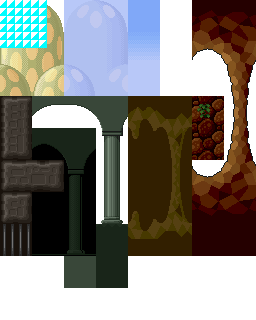
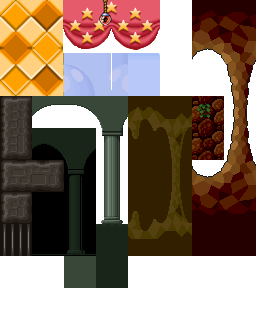
Toad House Chest

Changed region(s): [[0.0, 0.0, 0.625, 0.3125]]

diff --git a/code/chest.js b/code/chest.js
@@ -1,0 +1,226 @@
+/**
+    Represents a life-giving mushroom.
+    Code by Rob Kleffner, 2011
+*/
+
+Mario.Chest = function (world, x, y) {
+    this.RunTime = 0;
+    this.GroundInertia = 0.89;
+    this.AirInertia = 0.1;
+    this.OnGround = false;
+    this.Width = 17;
+    this.Height = 50;
+    this.World = world;
+    this.X = 150;
+    this.Y = 200;
+    this.Image = Enjine.Resources.Images["chest"];
+    this.XPicO = 17;
+    this.YPicO = 32;
+    this.YPic = 0;
+    this.Height = 50;
+    this.Facing = 1;
+    this.PicWidth = this.PicHeight = 33;
+    this.Life = 0;
+
+    this.Open = false;
+    this.Reward = 0;
+    this.layertimer = 10;
+    this.EndTimer = 125;
+};
+
+Mario.Chest.prototype = new Mario.NotchSprite();
+
+Mario.Chest.prototype.CollideCheck = function () {
+    var xMarioD = Mario.MarioCharacter.X - this.X, yMarioD = Mario.MarioCharacter.Y - this.Y;
+    if (xMarioD > -31 && xMarioD < 31) {
+        if (yMarioD > -this.Height && yMarioD < Mario.MarioCharacter.Height) {
+            this.XPic = 1;
+            if (!this.Open) {
+                for (i = 0; i <= 2; i++) {
+                    if (Math.random() * 2 | 0) {
+                        this.Reward += 1
+                    }
+                }
+                if (this.Reward == 1) {
+                    this.Layer = 1;
+                    this.World.AddSprite(new Mario.Mushroom(this.World, this.X, this.Y - 5));
+                }
+                else {
+                    this.World.AddSprite(new Mario.FireFlower(this.World, this.X, this.Y - 5));
+                }
+                this.Open = true;
+            }
+        }
+    }
+};
+
+Mario.Chest.prototype.Move = function () {
+
+    if (this.Life < 9) {
+        this.Layer = 1;
+        this.Y--;
+        this.Life++;
+        return;
+    }
+
+    var sideWaysSpeed = 0;
+
+    if (this.Open) {
+        this.layertimer -= 1
+        this.EndTimer -= 1
+    }
+    if (this.layertimer == 0) {
+        this.Layer = 0;
+    }
+    if (this.EndTimer == 0) {
+        Mario.MarioCharacter.Win()
+    }
+
+    if (this.Xa > 2) {
+        this.Facing = 1;
+    }
+    if (this.Xa < -2) {
+        this.Facing = -1;
+    }
+    if (Mario.MarioCharacter.character_select == "fox") {
+        return;
+    }
+    this.Xa = this.Facing * sideWaysSpeed;
+
+    this.XFlip = this.Facing === -1;
+    this.RunTime += Math.abs(this.Xa) + 5;
+
+    if (!this.SubMove(this.Xa, 0)) {
+        this.Facing = -this.Facing;
+    }
+    this.OnGround = false;
+    this.SubMove(0, this.Ya);
+
+    this.Ya *= 0.85;
+    if (this.OnGround) {
+        this.Xa *= this.GroundInertia;
+    } else {
+        this.Xa *= this.AirInertia;
+    }
+
+    if (!this.OnGround) {
+        this.Ya += 2;
+    }
+};
+
+Mario.Chest.prototype.SubMove = function (xa, ya) {
+    var collide = false;
+
+    while (xa > 8) {
+        if (!this.SubMove(8, 0)) {
+            return false;
+        }
+        xa -= 8;
+    }
+    while (xa < -8) {
+        if (!this.SubMove(-8, 0)) {
+            return false;
+        }
+        xa += 8;
+    }
+    while (ya > 8) {
+        if (!this.SubMove(0, 8)) {
+            return false;
+        }
+        ya -= 8;
+    }
+    while (ya < -8) {
+        if (!this.SubMove(0, -8)) {
+            return false;
+        }
+        ya += 8;
+    }
+
+    if (ya > 0) {
+        if (this.IsBlocking(this.X + xa - this.Width, this.Y + ya, xa, 0)) {
+            collide = true;
+        } else if (this.IsBlocking(this.X + xa + this.Width, this.Y + ya, xa, 0)) {
+            collide = true;
+        } else if (this.IsBlocking(this.X + xa - this.Width, this.Y + ya + 1, xa, ya)) {
+            collide = true;
+        } else if (this.IsBlocking(this.X + xa + this.Width, this.Y + ya + 1, xa, ya)) {
+            collide = true;
+        }
+    }
+    if (ya < 0) {
+        if (this.IsBlocking(this.X + xa, this.Y + ya - this.Height, xa, ya)) {
+            collide = true;
+        } else if (collide || this.IsBlocking(this.X + xa - this.Width, this.Y + ya - this.Height, xa, ya)) {
+            collide = true;
+        } else if (collide || this.IsBlocking(this.X + xa + this.Width, this.Y + ya - this.Height, xa, ya)) {
+            collide = true;
+        }
+    }
+
+    if (xa > 0) {
+        if (this.IsBlocking(this.X + xa + this.Width, this.Y + ya - this.Height, xa, ya)) {
+            collide = true;
+        }
+        if (this.IsBlocking(this.X + xa + this.Width, this.Y + ya - ((this.Height / 2) | 0), xa, ya)) {
+            collide = true;
+        }
+        if (this.IsBlocking(this.X + xa + this.Width, this.Y + ya, xa, ya)) {
+            collide = true;
+        }
+    }
+    if (xa < 0) {
+        if (this.IsBlocking(this.X + xa - this.Width, this.Y + ya - this.Height, xa, ya)) {
+            collide = true;
+        }
+        if (this.IsBlocking(this.X + xa - this.Width, this.Y + ya - ((this.Height / 2) | 0), xa, ya)) {
+            collide = true;
+        }
+        if (this.IsBlocking(this.X + xa - this.Width, this.Y + ya, xa, ya)) {
+            collide = true;
+        }
+    }
+
+    if (collide) {
+        if (xa < 0) {
+            this.X = (((this.X - this.Width) / 16) | 0) * 16 + this.Width;
+            this.Xa = 0;
+        }
+        if (xa > 0) {
+            this.X = (((this.X + this.Width) / 16 + 1) | 0) * 16 - this.Width - 1;
+            this.Xa = 0;
+        }
+        if (ya < 0) {
+            this.Y = (((this.Y - this.Height) / 16) | 0) * 16 + this.Height;
+            this.JumpTime = 0;
+            this.Ya = 0;
+        }
+        if (ya > 0) {
+            this.Y = (((this.Y - 1) / 16 + 1) | 0) * 16 - 1;
+            this.OnGround = true;
+        }
+
+        return false;
+    } else {
+        this.X += xa;
+        this.Y += ya;
+        return true;
+    }
+};
+
+Mario.Chest.prototype.IsBlocking = function (x, y, xa, ya) {
+    x = (x / 16) | 0;
+    y = (y / 16) | 0;
+
+    if (x === (this.X / 16) | 0 && y === (this.Y / 16) | 0) {
+        return false;
+    }
+
+    return this.World.Level.IsBlocking(x, y, xa, ya);
+};
+
+Mario.Chest.prototype.BumpCheck = function (x, y) {
+    if (this.X + this.Width > x * 16 && this.X - this.Width < x * 16 - 16 && y === ((y - 1) / 16) | 0) {
+        this.Facing = -Mario.MarioCharacter.Facing;
+        this.Ya = -10;
+    }
+};

diff --git a/mario.min.js b/mario.min.js
@@ -220,6 +220,12 @@ Mario.FlowerEnemy.prototype.Move = function () {
         this.JumpTime > 40 && a > 24 ? -8 : 0) : this.JumpTime = 0, this.Y += this.Ya, this.Ya *= 0.9, this.Ya += 0.1, this.XPic = ((this.Tick / 2 | 0) & 1) * 2 + ((this.Tick / 6 | 0) & 1)
 };
 Mario.Blastzone = function (world, x, y) { this.World = world; this.Image = Enjine.Resources.Images["blastzone"]; this.PicWidth = 144; this.PicHeight = 156; this.X = x * 16; this.Y = y * 16 - 16; this.Xa = 0; this.Ya = -6; this.XPic = 0; this.YPic = 0; }; this.Layer = 1; Mario.Blastzone.prototype = new Mario.NotchSprite();
+/**
+    Represents a life-giving mushroom.
+    Code by Rob Kleffner, 2011
+*/
+
+Mario.Chest = function (world, x, y) { this.RunTime = 0; this.GroundInertia = 0.89; this.AirInertia = 0.1; this.OnGround = false; this.Width = 4; this.Height = 24; this.World = world; this.X = x; this.Y = y; this.Image = Enjine.Resources.Images["items"]; this.XPicO = 8; this.YPicO = 15; this.YPic = 0; this.Height = 12; this.Facing = 1; this.PicWidth = this.PicHeight = 16; this.Life = 0; }; Mario.Chest.prototype = new Mario.NotchSprite();
 Mario.Shell = function (a, b, c, e) { this.World = a; this.X = b; this.Y = c; this.YPic = e; this.Image = Enjine.Resources.Images.enemies; this.XPicO = 8; this.YPicO = 31; this.Width = 4; this.Height = 12; this.Facing = 0; this.PicWidth = 16; this.XPic = 4; this.Ya = -5; this.Dead = !1; this.DeadTime = 0; this.Carried = !1; this.AirInertia = this.GroundInertia = 0.89; this.OnGround = !1; this.Anim = 0 };
 Mario.Shell.prototype = new Mario.NotchSprite; Mario.Shell.prototype.FireballCollideCheck = function (a) { if (this.DeadTime !== 0) return !1; var b = a.X - this.X, c = a.Y - this.Y; if (b > -16 && b < 16 && c > -this.Height && c < a.Height) { if (this.Facing !== 0) return !0; Enjine.Resources.PlaySound("kick"); this.Xa = a.Facing * 2; this.Ya = -5; if (this.SpriteTemplate !== null) this.SpriteTemplate.IsDead = !0; this.DeadTime = 100; return this.YFlip = !0 } return !1 };
 Mario.Shell.prototype.CollideCheck = function () {

diff --git a/code/backgroundRenderer.js b/code/backgroundRenderer.js
@@ -30,7 +30,10 @@ Mario.BackgroundRenderer.prototype.Draw = function (context, camera) {
 
             //bitshifting by five is the same as multiplying by 32
             if (Mario.MarioCharacter.LevelType == Mario.LevelType.Toad) {
-                context.drawImage(Enjine.Resources.Images["toadbackground"], frame.X, frame.Y, frame.Width, frame.Height, ((x << 5) - xCam) | 0, (y << 5) | 0, frame.Width, frame.Height);
+                context.drawImage(Enjine.Resources.Images["toadbackground"], frame.X, frame.Y, 63, 96, ((x << 5) - xCam) | 0, (y << 5) | 0, 63, 96);
+                context.drawImage(Enjine.Resources.Images["toadbackground"], frame.X + 63, frame.Y, 97, 53, (x - xCam + 2) | 0, (y << 2) | 0, 136, 74);
+                context.drawImage(Enjine.Resources.Images["toadbackground"], frame.X + 63, frame.Y, 97, 53, (x + 136 - xCam + 2) | 0, (y << 2) | 0, 136, 74);
+                context.drawImage(Enjine.Resources.Images["toadbackground"], frame.X + 63, frame.Y, 97, 53, (x + (136 * 2) - xCam + 2) | 0, (y << 2) | 0, 136, 74);
             }
             else {
                 context.drawImage(Enjine.Resources.Images["background"], frame.X, frame.Y, frame.Width, frame.Height, ((x << 5) - xCam) | 0, (y << 5) | 0, frame.Width, frame.Height);

diff --git a/code/loadingState.js b/code/loadingState.js
@@ -16,7 +16,7 @@ Mario.LoadingState.prototype = new Enjine.GameState();
 
 Mario.LoadingState.prototype.Enter = function () {
     var i = 0;
-    for (i = 0; i < 30; i++) {
+    for (i = 0; i < 31; i++) {
         this.Images[i] = {};
     }
 
@@ -50,6 +50,7 @@ Mario.LoadingState.prototype.Enter = function () {
     this.Images[27].name = "blastzonetop";
     this.Images[28].name = "toadmap";
     this.Images[29].name = "toadbackground";
+    this.Images[30].name = "chest";
 
 
     this.Images[0].src = "images/bgsheet.png";
@@ -82,6 +83,7 @@ Mario.LoadingState.prototype.Enter = function () {
     this.Images[27].src = "images/blastzonetop.png";
     this.Images[28].src = "images/toadmapsheet.png";
     this.Images[29].src = "images/toadbgsheet.png";
+    this.Images[30].src = "images/chest.png";
 
     Enjine.Resources.AddImages(this.Images);
 

diff --git a/code/levelGenerator.js b/code/levelGenerator.js
@@ -50,7 +50,7 @@ Mario.LevelGenerator.prototype = {
                     run = 0;
                 }
                 for (y = 0; y < level.Height; y++) {
-                    if (x < 1 || (x < 4 && y > 8) || (x > 14 && y > 12) || (x > 18 && y < 12) || (x > 15 && y > 8) || (y < 5 && x > 16) || (y < 5 && x < 3) || (y < 5 && x > 16) || (y < 3 && x < 5) || (y < 3 && x > 14) || (y < 1)) {
+                    if (x < 1 || (x < 4 && y > 8) || (x > 14 && y > 12) || (x > 18 && y < 12) || (x > 15 && y > 8) || (y < 5 && x > 16) || (y < 5 && x < 3) || (y < 5 && x > 16) || (y < 3 && x < 5) || (y < 3 && x > 14) || (y < 2)) {
                         level.SetBlock(x, y, 1 + 9 * 16);
                     }
                 }

diff --git a/code/levelState.js b/code/levelState.js
@@ -88,6 +88,10 @@ Mario.LevelState.prototype.Enter = function () {
 
     this.GotoMapState = false;
     this.GotoLoseState = false;
+
+    if (this.LevelType == Mario.LevelType.Toad) {
+        this.AddSprite(new Mario.Chest(this, 100, 50));
+    }
 };
 
 Mario.LevelState.prototype.Exit = function () {

diff --git a/main.html b/main.html
@@ -52,6 +52,7 @@
     <script src="code/flowerEnemy.js"></script>
     <script src="code/shell.js"></script>
     <script src="code/blastzone.js"></script>
+    <script src="code/chest.js"></script>
 
     <script src="code/titleState.js"></script>
     <script src="code/loadingState.js"></script>

diff --git a/code/fireFlower.js b/code/fireFlower.js
@@ -52,6 +52,8 @@ Mario.FireFlower.prototype.Move = function () {
 		return;
 	}
 
+	this.Layer = 1;
+
 	if (!this.SubMove(this.Xa, 0)) {
 		this.Facing = -this.Facing;
 	}
